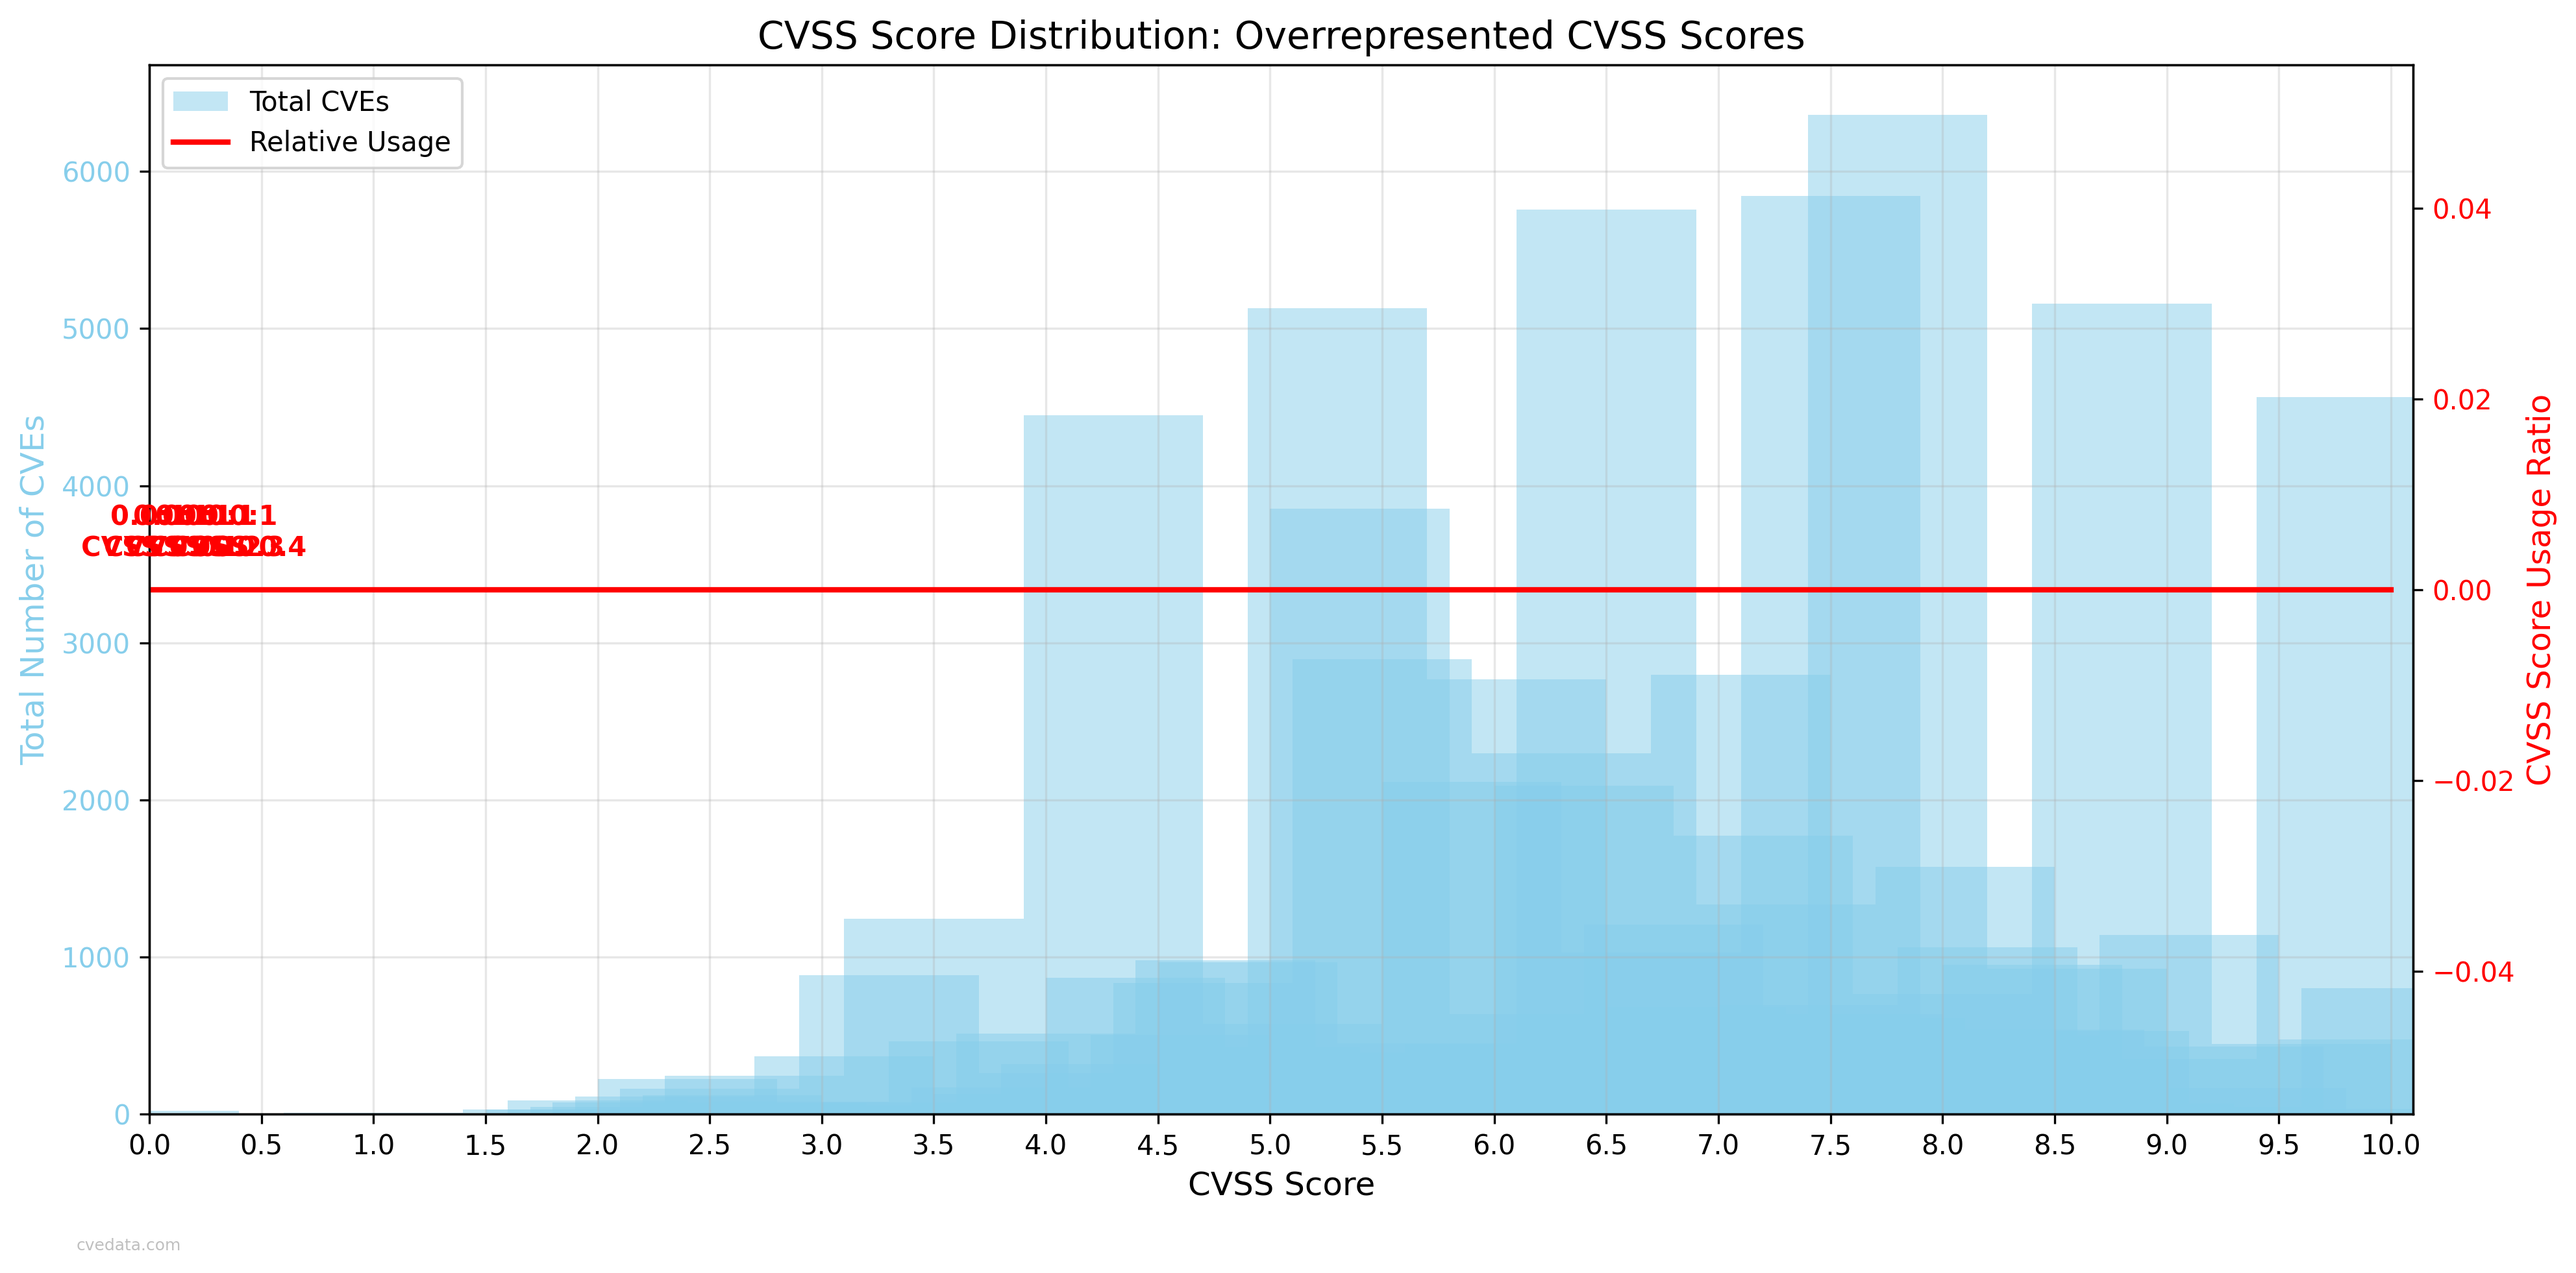
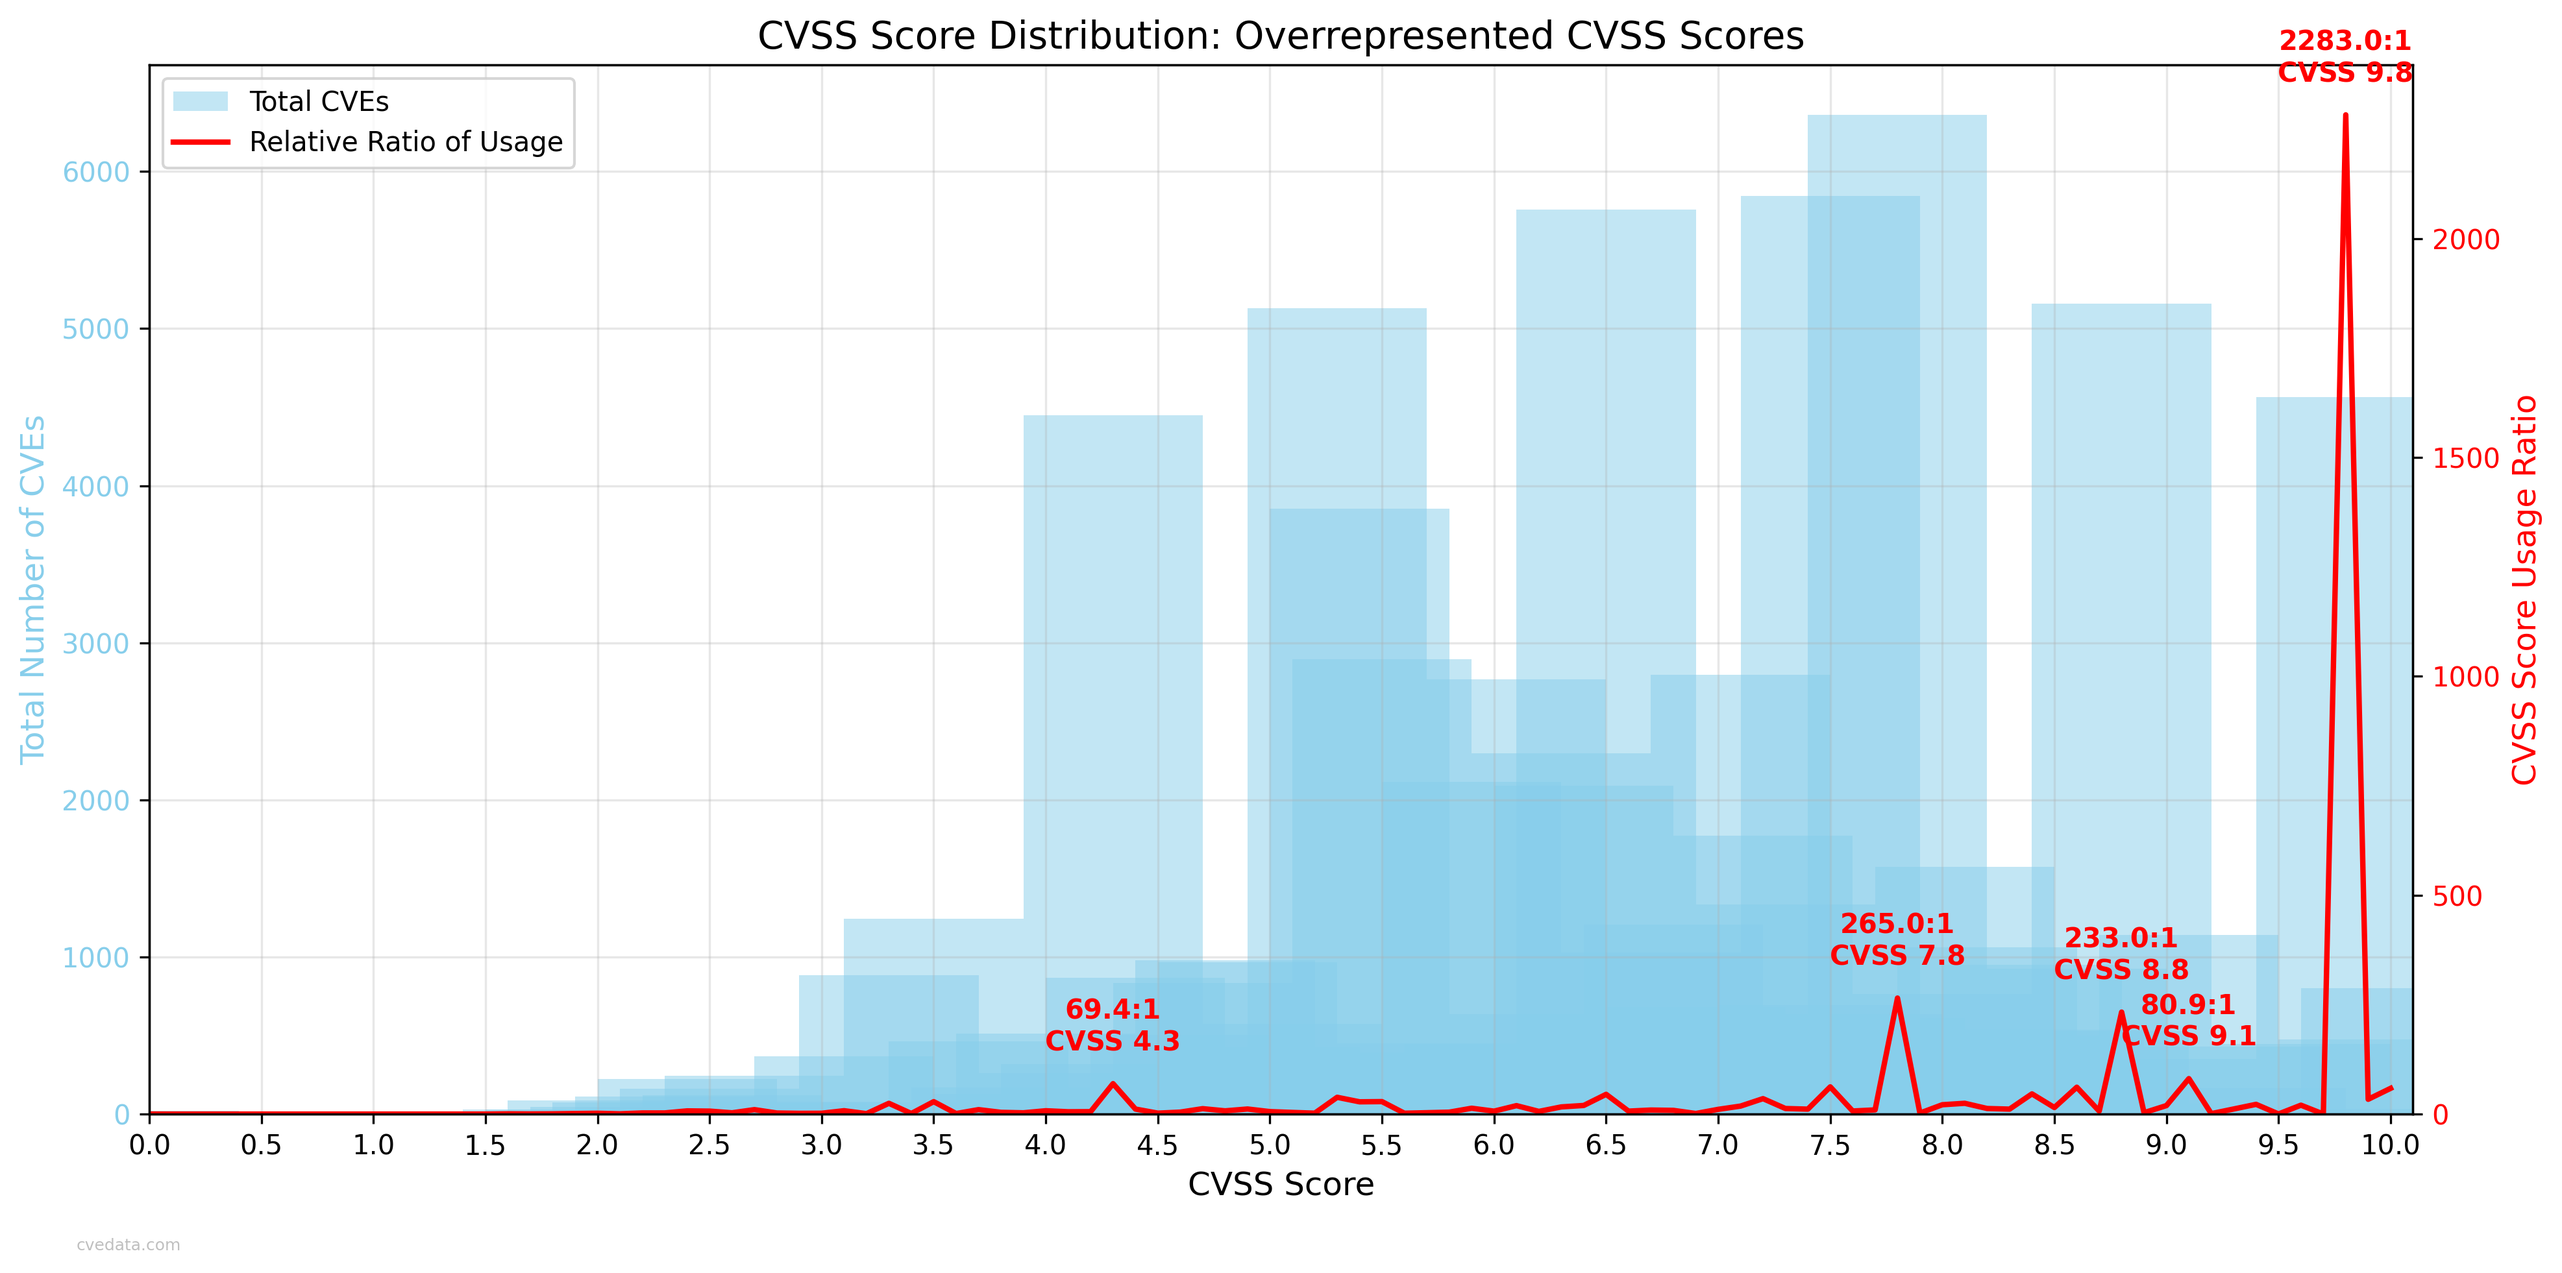
Commit for 2025-03-07 15:09:20

diff --git a/index.html b/index.html
@@ -531,6 +531,15 @@
             <button class="copy-button" onclick="copyGraphLink('cvss_epss_correlation_with_vectors_UI')">Copy a link to this graph</button>
         </div>
         
+        <div class="graph-container" id="cvss_relative_combined_overrepresented">
+            <h2>CVSS Score Distribution: Overrepresented CVSS Scores</h2>
+            <img src="./images/cvss_relative_combined_overrepresented.png" alt="CVSS Score Distribution: Overrepresented CVSS Scores">
+            <div class="description">
+                Shows the distribution of CVSS scores that are overrepresented in the data, providing insight into the relationship between the two. The higher the number the less likely that it matches the probabilistic distribution of CVSS scores based on the probability of landing on any given score. Only scored vulnerabilities are included.
+            </div>
+            <button class="copy-button" onclick="copyGraphLink('cvss_relative_combined_overrepresented')">Copy a link to this graph</button>
+        </div>
+        
 
         <div class="disclaimer">
             Compiled by Robert "<a href="https://rsnake.com/">RSnake</a>" Hansen. I do not guarantee the correctness of the data or images and further disclaim the reliability of the original data used or how it has been processed or represented in this report. Use your own judgement and do your own research. Use the charts with or without attribution (it's always appreciated), but if you do use it, please include me if you do any additional interesting research.
